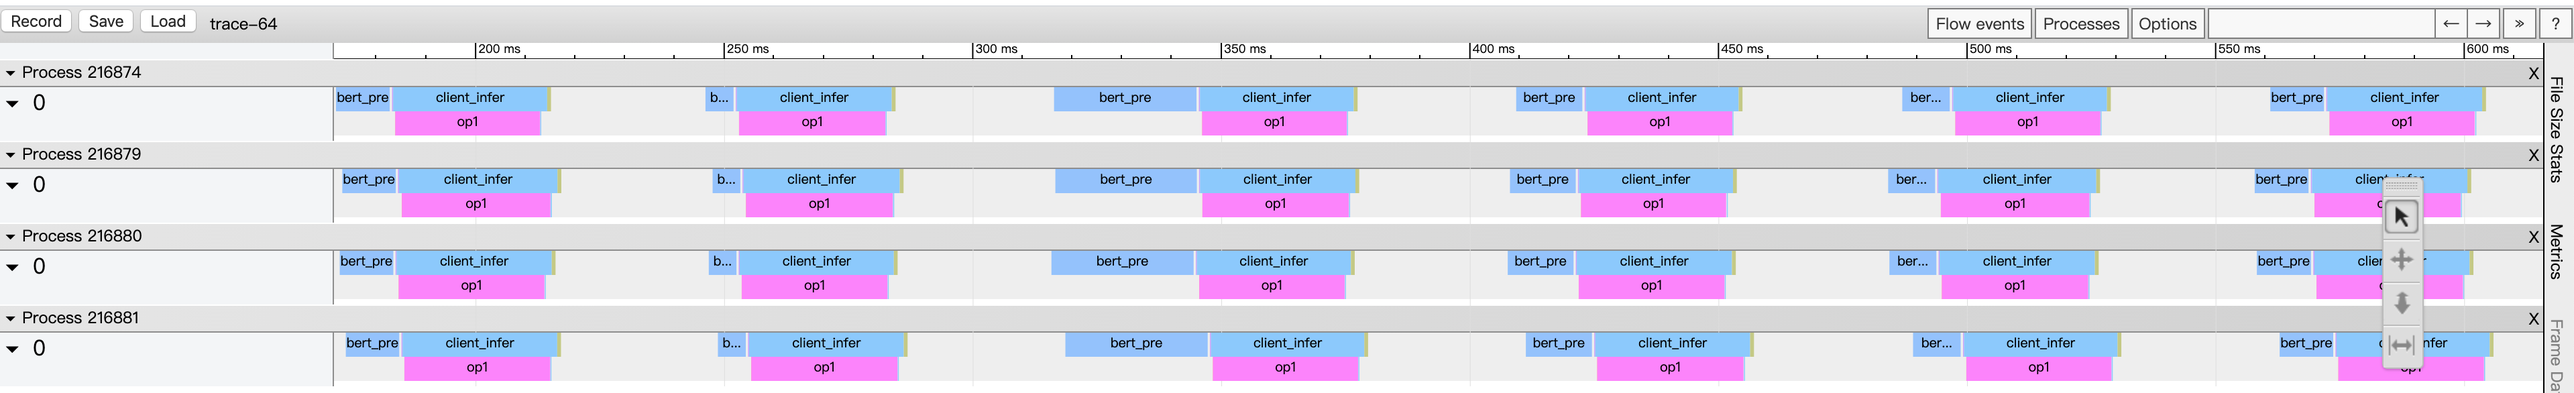
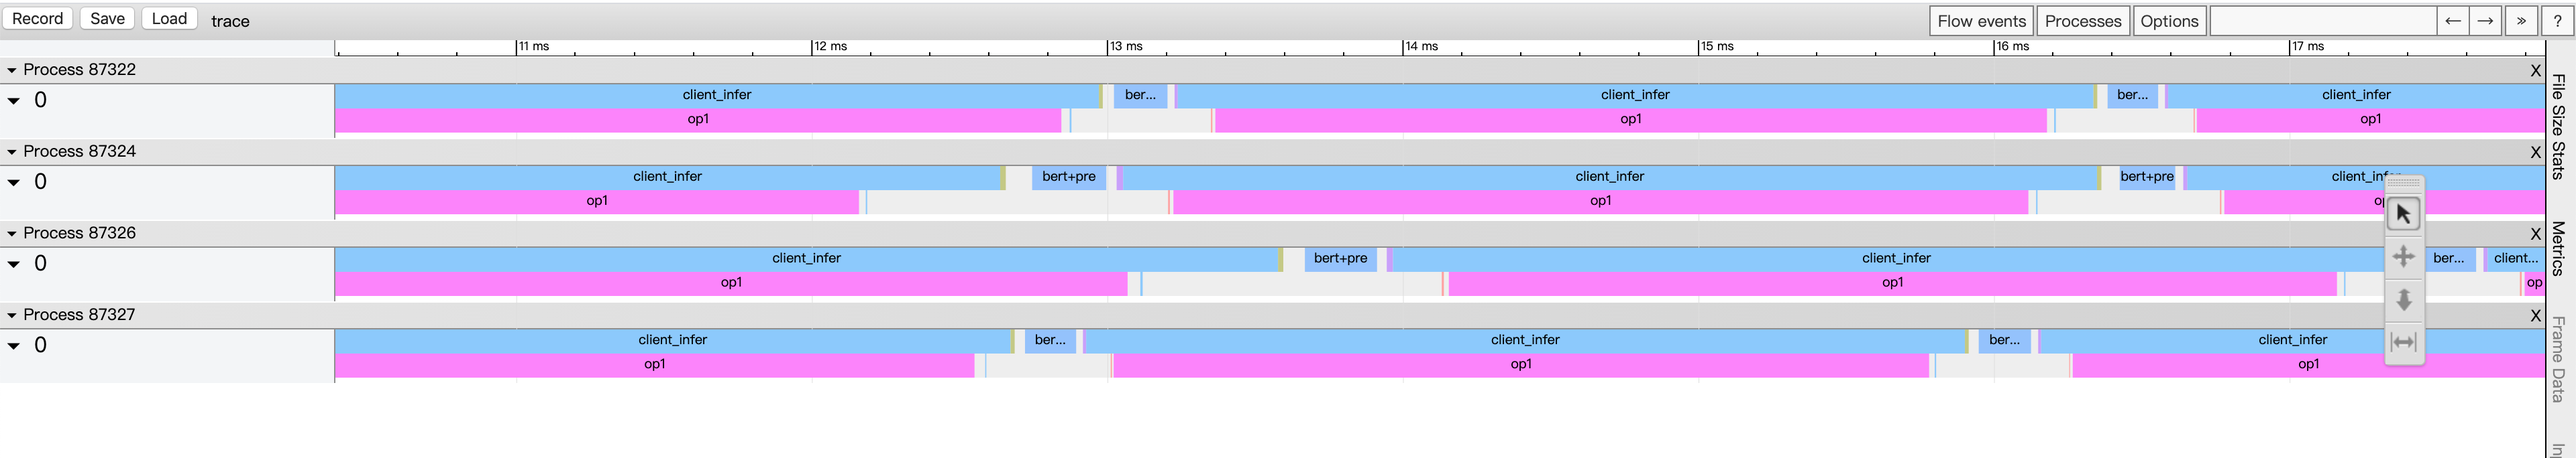
update timeline doc

diff --git a/python/examples/util/README.md b/python/examples/util/README.md
@@ -1,6 +1,6 @@
 ## Timeline工具使用
 
-serving框架中内置了预测服务中各阶段时间打点的功能，通过环境变量来控制是否开启。
+serving框架中内置了预测服务中各阶段时间打点的功能，在client端通过环境变量来控制是否开启，开启后会将打点信息输出到屏幕。
 ```
 export FLAGS_profile_client=1 #开启client端各阶段时间打点
 export FLAGS_profile_server=1 #开启server端各阶段时间打点
@@ -13,6 +13,8 @@ export FLAGS_profile_server=1 #开启server端各阶段时间打点
 ```
 python show_profile.py profile ${thread_num}
 ```
+这里thread_num参数为client运行时的进程数，脚本将按照这个参数来计算各阶段的平均耗时。
+
 脚本将计算各阶段的耗时，并除以线程数做平均，打印到标准输出。
 
 ```
@@ -22,6 +24,6 @@ python timeline_trace.py profile trace
 
 具体操作：打开chrome浏览器，在地址栏输入chrome://tracing/，跳转至tracing页面，点击load按钮，打开保存的trace文件，即可将预测服务的各阶段时间信息可视化。
 
-效果如下图，图中展示了client端启动4进程时的bert示例的各阶段timeline，其中bert_pre代表client端的数据预处理阶段，client_infer代表client完成预测请求的发送和接收结果的阶段，每个进进程的第二行展示的是server各个op的timeline。
+效果如下图，图中展示了使用[bert示例](https://github.com/PaddlePaddle/Serving/tree/develop/python/examples/bert)的GPU预测服务，server端开启4卡预测，client端启动4进程，batch size为1时的各阶段timeline，其中bert_pre代表client端的数据预处理阶段，client_infer代表client完成预测请求的发送和接收结果的阶段，图中的process代表的是client的进程号，每个进进程的第二行展示的是server各个op的timeline。
 
 ![timeline](../../../doc/timeline-example.png)
